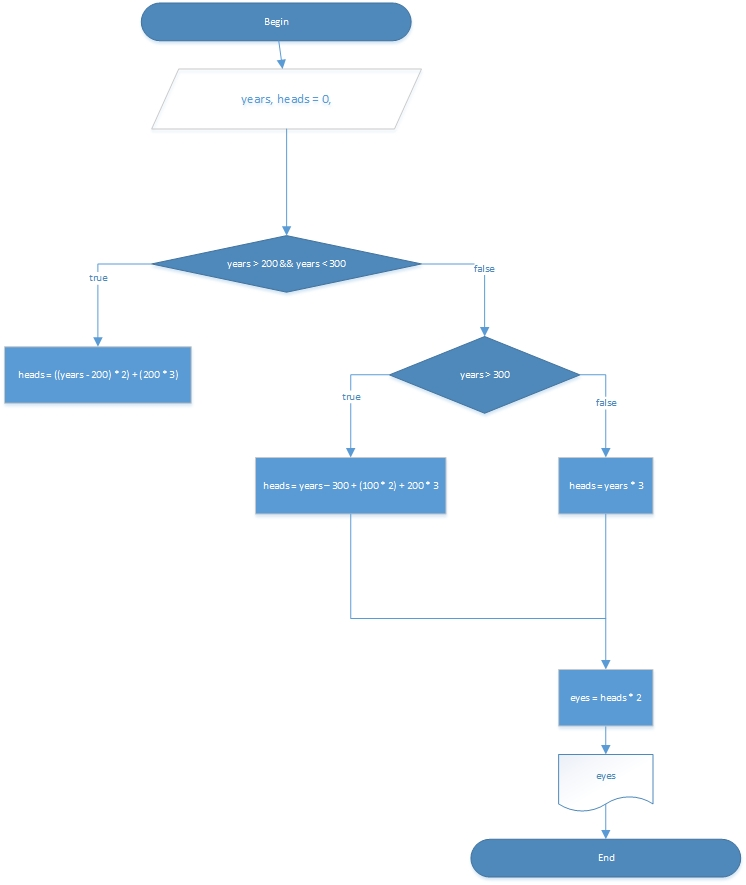
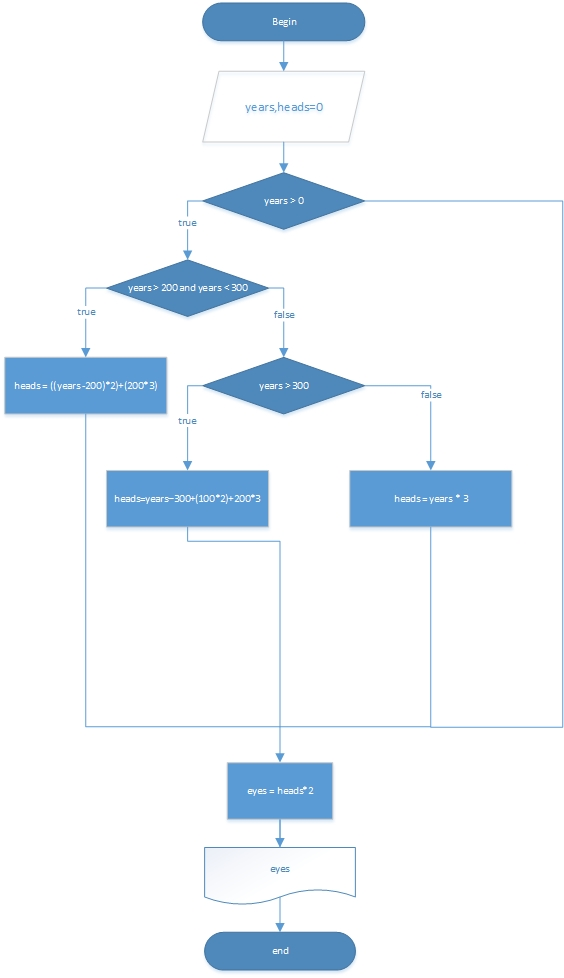
fix task3

diff --git a/task3/src/epam/dukhanin/second/Dragon.java b/task3/src/epam/dukhanin/second/Dragon.java
@@ -1,6 +1,14 @@
 package epam.dukhanin.second;
 
 public class Dragon {
+
+    private static final int AGE_PERIOD_FIRST = 100;
+    private static final int AGE_PERIOD_SECOND = 200;
+    private static final int AGE_PERIOD_THIRD = 300;
+    private static final int HEADS_PERIOD_FIRST = 3;
+    private static final int HEADS_PERIOD_SECOND = 2;
+
+
     private int years;
 
     public Dragon(int years) {
@@ -9,12 +17,14 @@ public class Dragon {
 
     public int countDragonHeads() {
         int heads = 0;
-        if (years > 200 && years < 300) {
-            heads = ((years - 200) * 2) + (200 * 3);
-        } else if (years > 300) {
-            heads = years - 300 + (100 * 2) + 200 * 3;
-        } else {
-            heads = years * 3;
+        if (years > 0) {
+            if (years > AGE_PERIOD_SECOND && years < AGE_PERIOD_THIRD) {
+                heads = ((years - AGE_PERIOD_SECOND) * HEADS_PERIOD_SECOND) + (AGE_PERIOD_SECOND * HEADS_PERIOD_FIRST);
+            } else if (years > AGE_PERIOD_THIRD) {
+                heads = years - AGE_PERIOD_THIRD + (AGE_PERIOD_FIRST * HEADS_PERIOD_SECOND) + AGE_PERIOD_SECOND * HEADS_PERIOD_FIRST;
+            } else {
+                heads = years * HEADS_PERIOD_FIRST;
+            }
         }
         return heads;
     }

diff --git a/task3/src/epam/dukhanin/third/Letter.java b/task3/src/epam/dukhanin/third/Letter.java
@@ -11,6 +11,7 @@ public class Letter {
         for (char v : vowels) {
             if (c == v) {
                 isVowel = true;
+                break;
             }
         }
         return isVowel;
@@ -28,20 +29,11 @@ public class Letter {
         boolean isVowel = false;
         switch (c) {
             case 'a':
-                isVowel = true;
-                break;
             case 'e':
-                isVowel = true;
-                break;
             case 'i':
-                isVowel = true;
-                break;
             case 'o':
-                isVowel = true;
-                break;
             case 'u':
-                isVowel = true;
-                break;
+                isVowel=true;
         }
         return isVowel;
     }

diff --git a/task3/src/epam/dukhanin/fourth/MoodSensor.java b/task3/src/epam/dukhanin/fourth/MoodSensor.java
@@ -7,9 +7,9 @@ public class MoodSensor {
         String s = "my current mood is: ";
         Random random = new Random();
         if (random.nextBoolean()) {
-            s += '\u263A';
+            s += ":)" ;
         } else {
-            s += '\u2639';
+            s += ":(";
         }
         return s;
     }

diff --git a/task3/src/epam/dukhanin/first/Triangle.java b/task3/src/epam/dukhanin/first/Triangle.java
@@ -22,7 +22,7 @@ public class Triangle {
             triangle = false;
         } else if (ab + cb <= ac) {
             triangle = false;
-        } else if (cb + ac <= ac) {
+        } else if (cb + ac <= ab) {
             triangle = false;
         }
         return triangle;
